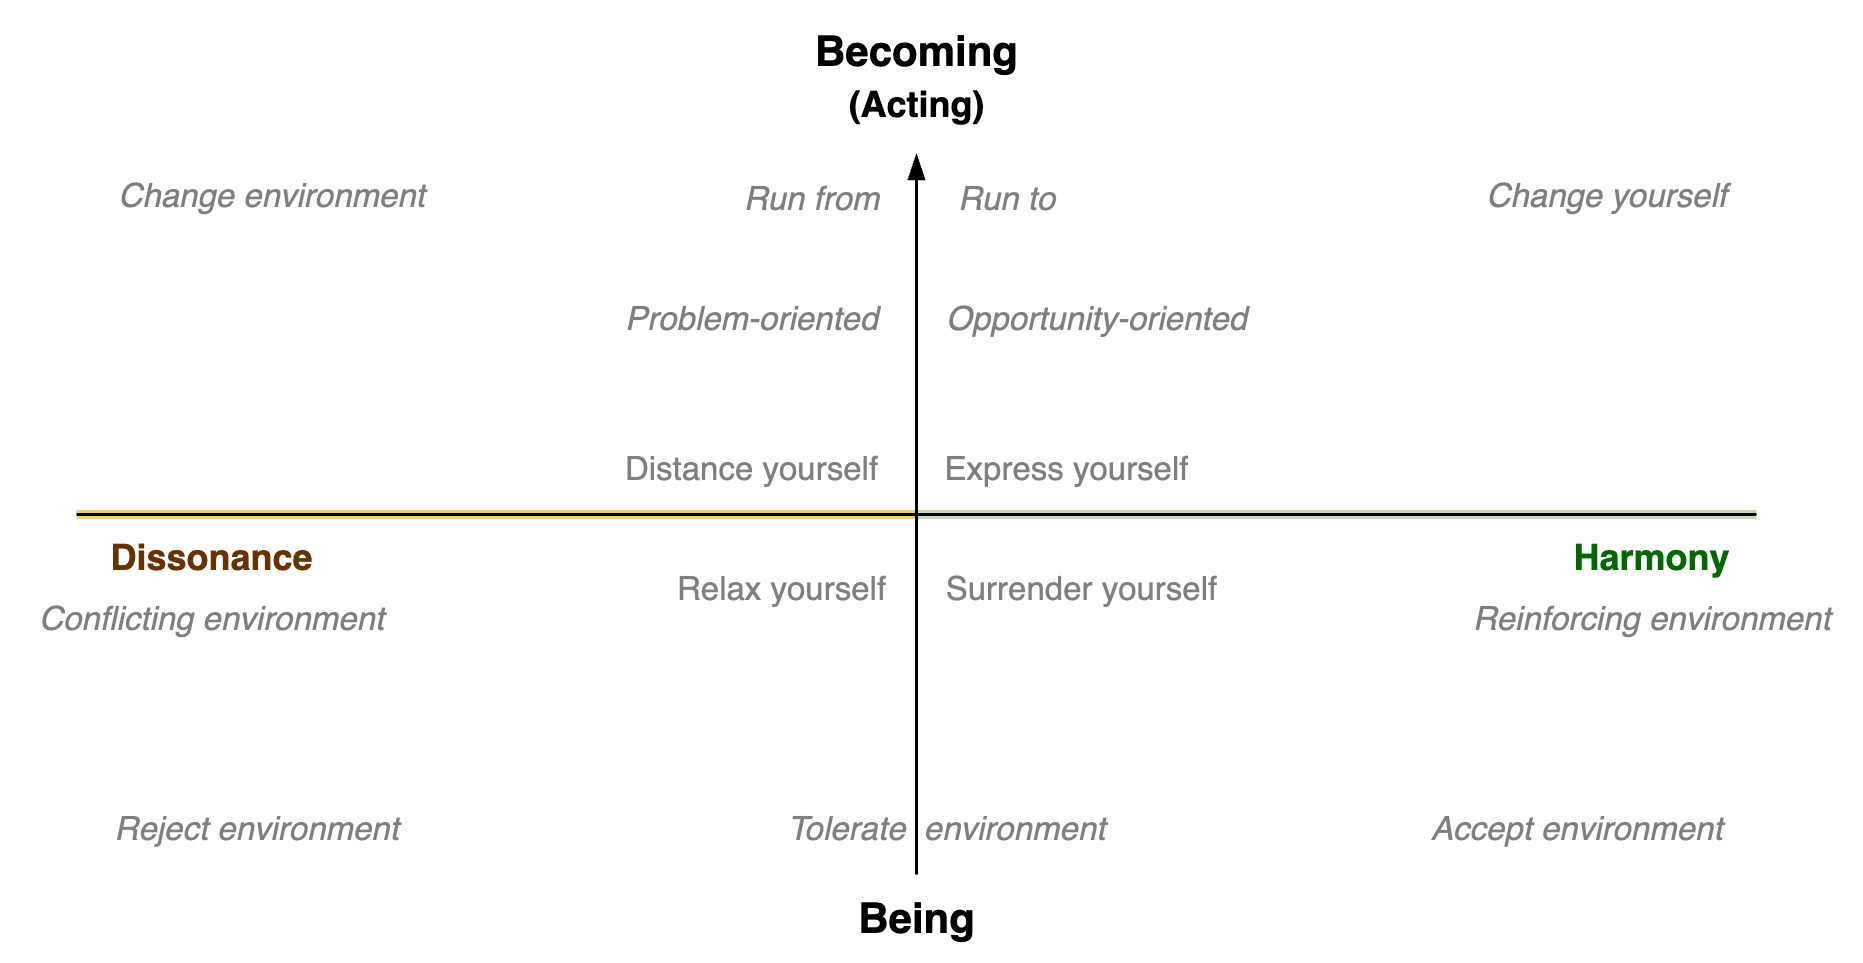
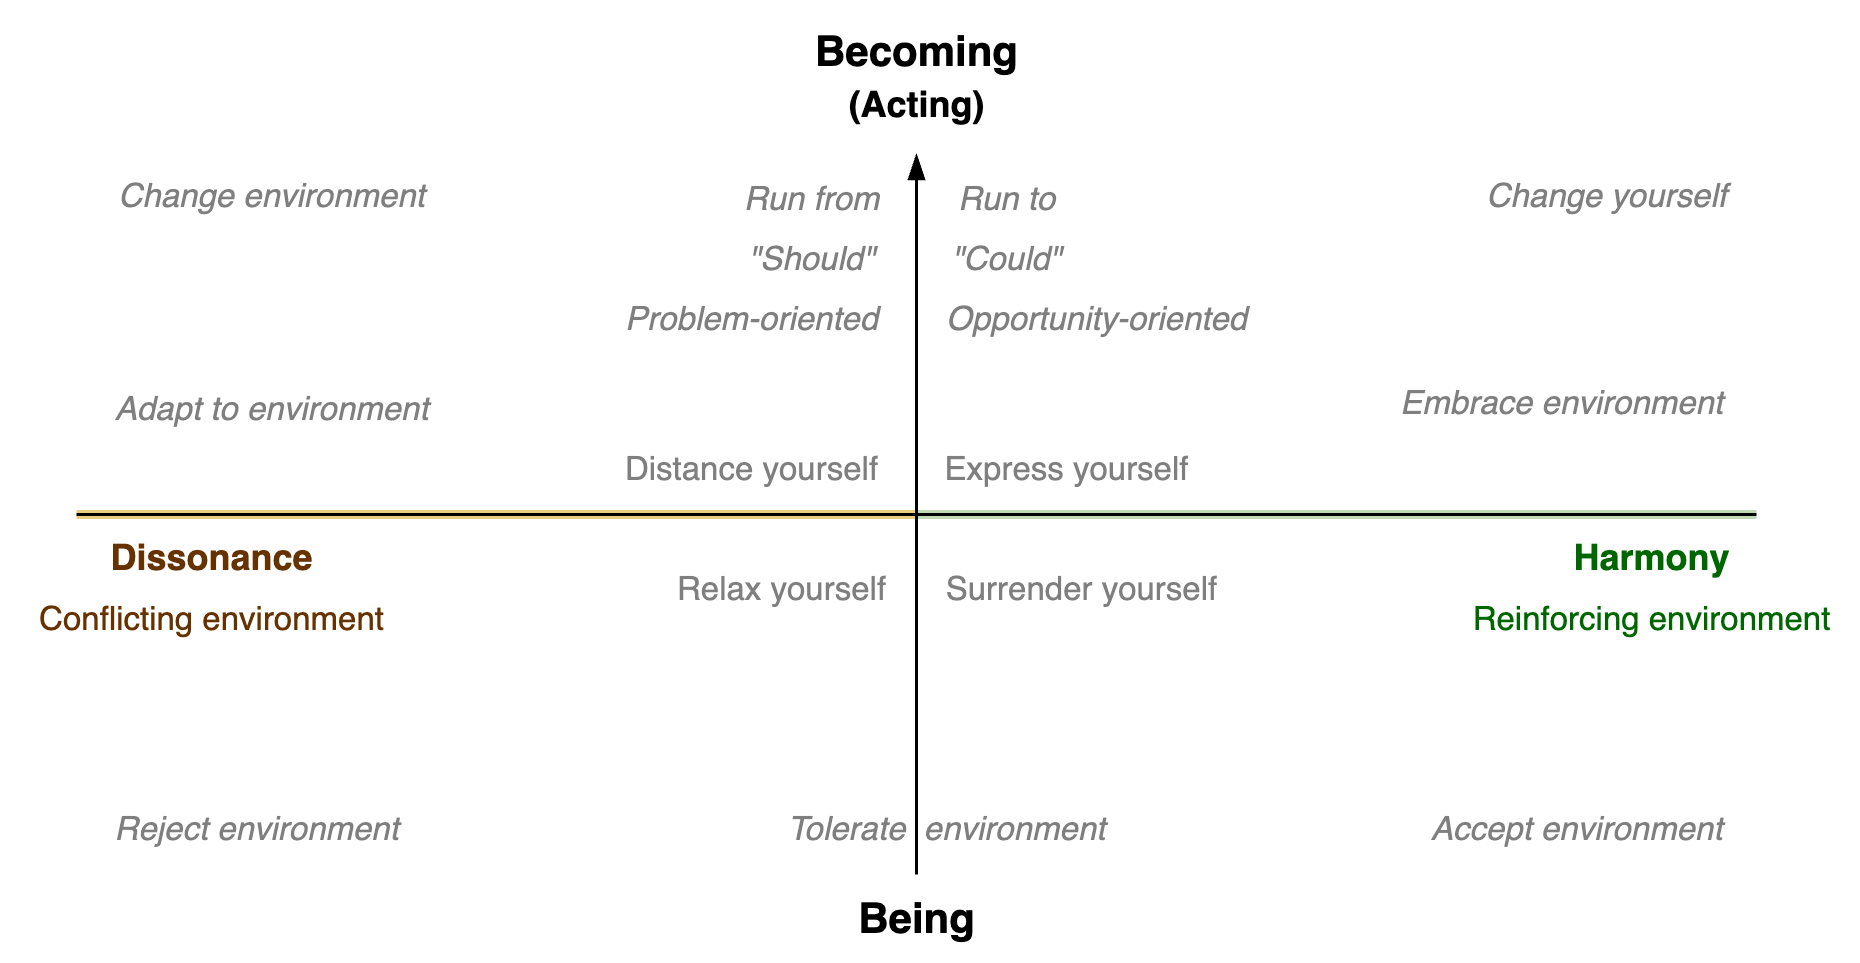
add maps

diff --git a/psychology/experience.md b/psychology/experience.md
@@ -68,6 +68,20 @@ Other dimensions
 
 
 
+#### Being and becoming
+
+<img src="../img/map-being-becoming.png" alt="map-being-becoming" style="width:50em;" />
+
+
+
+Becoming can have many forms. The origin can be fear or desire. The attitude towards the environment can be submissive or aggressive. Attention can be associated or dissociated.
+
+<img src="../img/map-becoming-assertiveness-mobilization.png" alt="map-becoming-assertiveness-mobilization" style="width:40em;" />
+
+
+
+
+
 > How you feel ≠ what you feel.
 
 ![experience-thinking-sensing](../img/experience-thinking-sensing.png)

diff --git a/guides/test-more-effectively.md b/guides/test-more-effectively.md
@@ -18,7 +18,7 @@ Testing is surrounded by decision making.
 
 
 
-See also [software testing](../software-industry/testing.md) [hiring](collaboration/hiring.md) and [personality](../psychology/personality.md).
+See also [software testing](../software-industry/testing.md), [bets](../labour/bets.md), [hiring](collaboration/hiring.md) and [personality](../psychology/personality.md).
 
 [TOC]
 

diff --git a/psychology/emotions.md b/psychology/emotions.md
@@ -14,6 +14,8 @@ Layers of emotion
 2. An **emotion**. E.g. forms of joy, sadness, fear, anger, disgust.
 3. A **judgement**. Whether you can manage the situation and feeling.
 
+The last layer depends on self-awareness and attitude. An example would be the fear of being afraid.
+
 
 
 > Emotions can be experienced in endlessly new ways.

diff --git a/labour/bets.md b/labour/bets.md
@@ -35,4 +35,3 @@ Beliefs and predictions.
 Bets can have several forms. They should be sized according to the amount of uncertainty. Otherwise they result in wasted time or reckless risk taking.
 
 ![map-risk-reward](../img/map-risk-reward.png)
-
